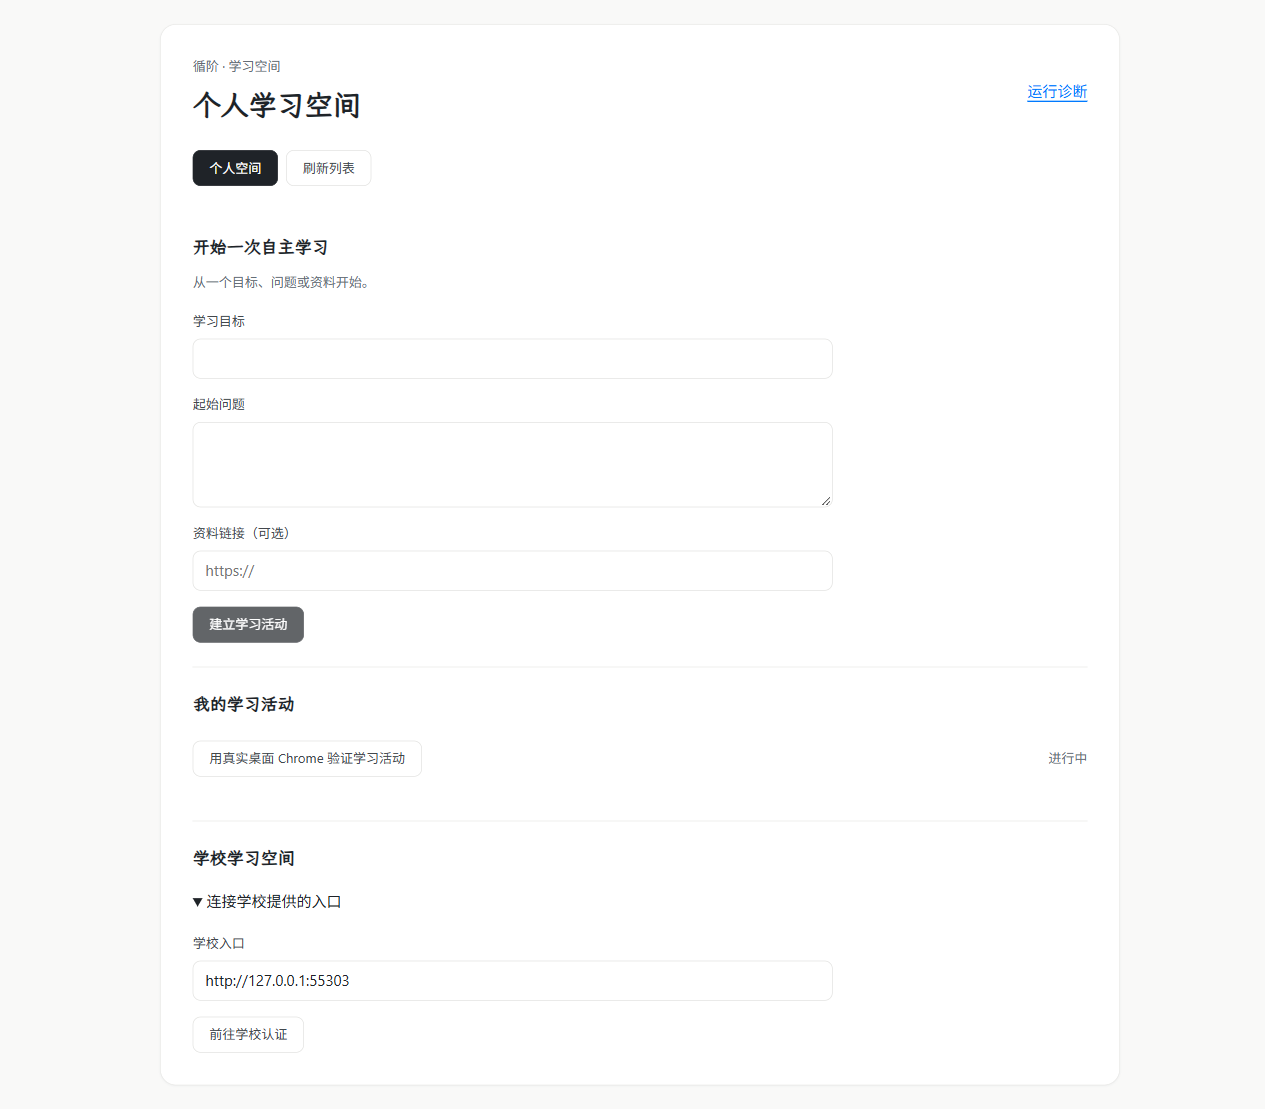
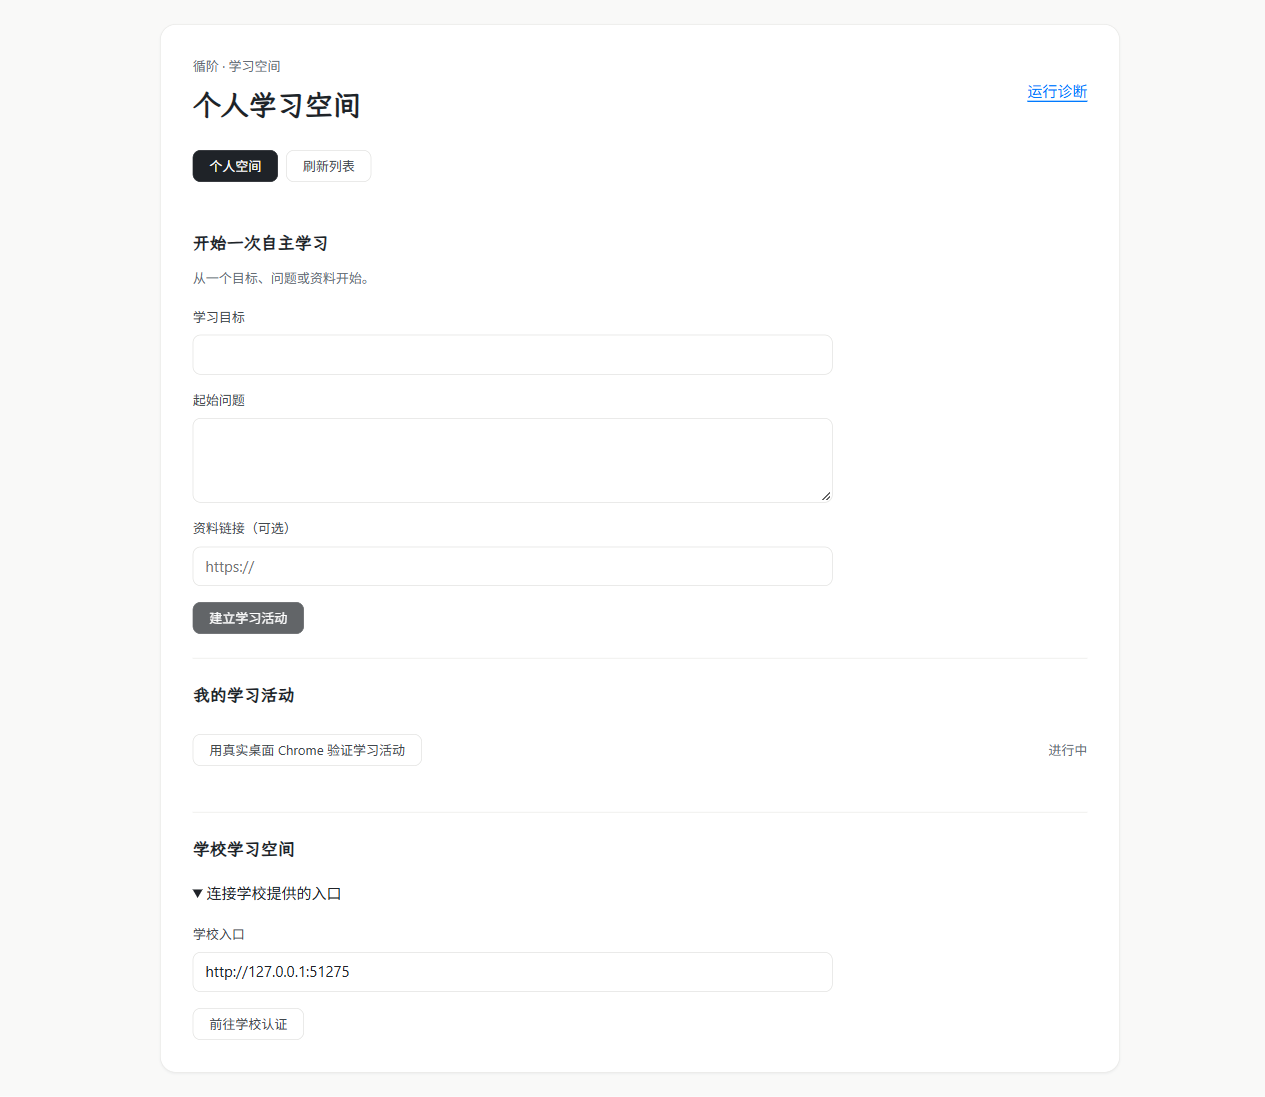
refactor(learning): own space modules in a package and close review gaps (#149)

diff --git a/apps/web/src/runtime/LearningPage.tsx b/apps/web/src/runtime/LearningPage.tsx
@@ -19,7 +19,11 @@ async function api(path: string, body?: unknown, key?: string, signal?: AbortSig
     headers: { 'content-type': 'application/json', ...(key ? { 'x-xj-space': key } : {}) },
     ...(body === undefined ? {} : { body: JSON.stringify(body) }), signal: signal ?? AbortSignal.timeout(10000), credentials: 'same-origin' })
   const result = await response.json()
-  if (!response.ok) throw new Error(messages[result.error] ?? '操作结果尚未确认，请核对原请求后重试。')
+  if (!response.ok) {
+    const failure = new Error(messages[result.error] ?? '操作结果尚未确认，请核对原请求后重试。') as Error & { code?: string }
+    failure.code = result.error
+    throw failure
+  }
   return result
 }
 const errorText = (error: unknown) => error instanceof Error ? error.message : '操作未完成，请重试。'
@@ -106,14 +110,27 @@ export function LearningPage() {
     // Persist the exact request before dispatch; an unknown result keeps this identity across reloads.
     localStorage.setItem(scopeKey, JSON.stringify(input))
     setPendingRequest(input)
-    const existing = await api('receipts/' + input.requestId, undefined, selected)
-    const activity = activitySchema.parse(existing ?? await api('activities', input, selected))
-    const saved = localStorage.getItem(scopeKey)
-    if (saved && createActivitySchema.parse(JSON.parse(saved)).requestId === input.requestId) localStorage.removeItem(scopeKey)
-    if (generation === epoch.current) {
-      setPendingRequest(null); setOpened(activity); setActivities(previous => [activity, ...(previous ?? []).filter(item => item.activityId !== activity.activityId)])
-      setGoal(''); setQuestion(''); setReference('')
+    try {
+      const existing = await api('receipts/' + input.requestId, undefined, selected)
+      const activity = activitySchema.parse(existing ?? await api('activities', input, selected))
+      const saved = localStorage.getItem(scopeKey)
+      if (saved && createActivitySchema.parse(JSON.parse(saved)).requestId === input.requestId) localStorage.removeItem(scopeKey)
+      if (generation === epoch.current) {
+        setPendingRequest(null); setOpened(activity); setActivities(previous => [activity, ...(previous ?? []).filter(item => item.activityId !== activity.activityId)])
+        setGoal(''); setQuestion(''); setReference('')
+      }
+    } catch (error) {
+      // A rejected input can never succeed under this request identity; let the student edit again.
+      if ((error as { code?: string }).code === 'invalid') {
+        localStorage.removeItem(scopeKey)
+        if (generation === epoch.current) setPendingRequest(null)
+      }
+      throw error
     }
+  }
+  function discardPending() {
+    if (pendingKey) localStorage.removeItem(pendingKey)
+    setPendingRequest(null); setGoal(''); setQuestion(''); setReference(''); setError('')
   }
   async function openActivity(activityId: string) {
     const generation = epoch.current
@@ -161,6 +178,7 @@ export function LearningPage() {
             <label>起始问题<textarea value={question} maxLength={10000} disabled={!!pendingRequest} onChange={event => setQuestion(event.target.value)} rows={3} /></label>
             <label>资料链接（可选）<input type="url" value={reference} disabled={!!pendingRequest} onChange={event => setReference(event.target.value)} placeholder="https://" /></label>
             {pendingRequest && <p className="detail">上次建立活动的结果尚未核对，将先查询原请求。</p>}
+            {pendingRequest && <button type="button" disabled={busy} onClick={discardPending}>放弃这次请求并重新填写</button>}
             <button className="primary" disabled={busy || !pendingRequest && !goal.trim() && !question.trim() && !reference}>
               {busy ? '正在处理…' : pendingRequest ? '核对并继续原请求' : '建立学习活动'}</button>
           </form>

diff --git a/packages/learning-space/src/learning-entry/index.ts b/packages/learning-space/src/learning-entry/index.ts
@@ -47,6 +47,12 @@ export function createLearningEntry(options: {
   const { spaces, learning, environment } = options;
   const cookieName = `xj_${environment.environmentId.replaceAll('-', '')}`;
   const endpoint = new URL(environment.services[0]!.endpoint);
+  // The same product may be opened as 127.0.0.1, localhost or [::1] on a loopback listener.
+  const allowedOrigins = new Set([endpoint.origin]);
+  if (['127.0.0.1', '[::1]', 'localhost'].includes(endpoint.hostname)) {
+    const port = endpoint.port ? `:${endpoint.port}` : '';
+    for (const host of ['127.0.0.1', 'localhost', '[::1]']) allowedOrigins.add(`${endpoint.protocol}//${host}${port}`);
+  }
   const cookieFlags = `; Path=/; HttpOnly; SameSite=Strict${endpoint.protocol === 'https:' ? '; Secure' : ''}`;
   function session(request: IncomingMessage) {
     return request.headers.cookie?.split(';').map(part => part.trim()).find(part => part.startsWith(cookieName + '='))?.slice(cookieName.length + 1) ?? '';
@@ -67,7 +73,7 @@ export function createLearningEntry(options: {
     const pathname = new URL(request.url ?? '/', endpoint).pathname;
     if (!pathname.startsWith('/api/learning/')) return false;
     try {
-      if (request.headers.origin && request.headers.origin !== endpoint.origin || request.headers['sec-fetch-site'] === 'cross-site') throw new StorageError('forbidden');
+      if (request.headers.origin && !allowedOrigins.has(request.headers.origin) || request.headers['sec-fetch-site'] === 'cross-site') throw new StorageError('forbidden');
       const route = pathname.slice('/api/learning/'.length);
       const method = request.method;
       let result: unknown;
@@ -115,6 +121,9 @@ export function createLearningEntry(options: {
         } else if (route === 'manage/membership') {
           const input = z.object({ requestId: z.uuid(), principalId: z.uuid(), active: z.boolean() }).strict().parse(body);
           await spaces.setMembership(input); result = { updated: true };
+        } else if (route === 'manage/connection') {
+          const input = z.object({ connectionId: z.uuid() }).strict().parse(body);
+          result = await spaces.adminRevokeConnection(input.connectionId);
         } else throw new StorageError('missing');
       } else if (route === 'connections/start' && method === 'POST') {
         const input = z.object({ requestId: z.uuid(), clientId: z.uuid(), challenge: z.string() }).strict().parse(await readLearningBody(request));

diff --git a/apps/local-runtime/src/cli.ts b/apps/local-runtime/src/cli.ts
@@ -39,6 +39,7 @@ const commands: Record<string, readonly string[]> = {
   'maintenance-resume': ['resources'],
   'school-member': ['file', 'resources'],
   'school-membership': ['file', 'resources'],
+  'school-connection': ['file', 'resources'],
 };
 
 // Keep known secret values out of messages even if a downstream error includes them.
@@ -323,12 +324,14 @@ async function main(): Promise<void> {
     }
     case 'start': output(await run(() => runtime.start())); break;
     case 'school-member':
-    case 'school-membership': {
+    case 'school-membership':
+    case 'school-connection': {
       const input = await jsonFile(required('file'), '学校成员操作');
       if (typeof input.password === 'string') rememberSecret(input.password);
       const status = await run(() => runtime.status());
       if (!status.endpoint || !['ready', 'degraded'].includes(status.state)) throw new Error('请先启动本学校产品环境');
-      const response = await fetch(new URL(`/api/learning/manage/${command === 'school-member' ? 'members' : 'membership'}`, status.endpoint), {
+      const action = command === 'school-member' ? 'members' : command === 'school-membership' ? 'membership' : 'connection';
+      const response = await fetch(new URL(`/api/learning/manage/${action}`, status.endpoint), {
         method: 'POST', redirect: 'error', signal: AbortSignal.timeout(15000),
         headers: { 'content-type': 'application/json', authorization: `Bearer ${rememberSecret(await resolveCredential(root, 'control'))}` },
         body: JSON.stringify(input),

diff --git a/apps/web/src/runtime/learning.css b/apps/web/src/runtime/learning.css
@@ -3,10 +3,10 @@
 .learning-page a { color: var(--accent); text-underline-offset: 4px; }
 .learning-page .space-switcher { display: flex; flex-wrap: wrap; gap: 8px; margin: 24px 0; }
 .learning-page button[aria-pressed='true'], .learning-page .primary { background: var(--primary); color: var(--on-primary); border-color: var(--primary); }
-.learning-page button { min-height: 36px; }
+.learning-page button { min-height: 32px; padding: 0 16px; font-size: 13px; }
 .learning-page form { display: grid; gap: 16px; margin-top: 20px; max-width: 640px; }
 .learning-page label { display: grid; gap: 8px; color: var(--ink-soft); font-size: 13px; }
-.learning-page input, .learning-page textarea { width: 100%; min-height: 40px; padding: 8px 12px; border: 1px solid var(--line-strong); border-radius: 8px; background: var(--paper); color: var(--ink); font: 15px/1.5 var(--font-sans); }
+.learning-page input, .learning-page textarea { width: 100%; min-height: 36px; padding: 8px 12px; border: 1px solid var(--line-strong); border-radius: 8px; background: var(--paper); color: var(--ink); font: 15px/1.5 var(--font-sans); }
 .learning-page textarea { resize: vertical; }
 .learning-page form button { justify-self: start; }
 .learning-page section { padding-top: 24px; margin-top: 24px; }

diff --git a/packages/learning-space/src/spaces/index.ts b/packages/learning-space/src/spaces/index.ts
@@ -184,11 +184,19 @@ export function createSpaces(storage: OwnedStorage, options: { sessionLifetimeMs
       return null;
     });
   }
+  async function adminRevokeConnection(connectionId: string) {
+    id.parse(connectionId);
+    await storage.request({ requestId: randomUUID(), fingerprint: digest({ connectionId }) }, async tx => {
+      const result = await tx.query("UPDATE sessions SET revoked=true WHERE connection_id=$1 AND kind='connection'", [connectionId]);
+      if (!result.rowCount) fail('missing');
+      return { revoked: true };
+    });
+  }
   async function validate() {
     const { rows } = await storage.read('SELECT target FROM learning_bindings');
     for (const row of rows) learningTargetSchema.parse(row.target);
     await storage.read('SELECT a.principal_id FROM accounts a JOIN memberships m ON m.principal_id=a.principal_id');
   }
   return { personal, createMember, setMembership, login, authenticate, bindMember, resolveBinding,
-    logout, beginConnection, approveConnection, exchangeConnection, revokeConnection, validate };
+    logout, beginConnection, approveConnection, exchangeConnection, revokeConnection, adminRevokeConnection, validate };
 }

diff --git a/packages/product-runtime/src/school-client.ts b/packages/product-runtime/src/school-client.ts
@@ -91,7 +91,14 @@ export function createSchoolClient(root: string, environment: RuntimeEnvironment
     if (!/^(?:activities(?:\/[0-9a-f-]{36})?|activity-status|receipts\/[0-9a-f-]{36}|connections\/revoke)$/.test(route)) throw new StorageError('forbidden');
     const connection = await read(connectionId);
     if (!connection.grant) throw new StorageError('forbidden');
-    const value = await call(connection, route, body, true);
+    let value: unknown;
+    try { value = await call(connection, route, body, true); }
+    catch (error) {
+      // The school may already have revoked this grant (or the membership): drop the local copy too.
+      if (route !== 'connections/revoke' || !(error instanceof StorageError) || error.code !== 'forbidden') throw error;
+      await rm(path(connectionId), { force: true });
+      return { revoked: true };
+    }
     if (route === 'connections/revoke') {
       // A revoked grant must stop appearing as an available space; keep no local copy that could be replayed.
       await rm(path(connectionId), { force: true });

diff --git a/packages/product-runtime/src/learning-entry.ts b/packages/product-runtime/src/learning-entry.ts
@@ -2,7 +2,7 @@ import { randomBytes, randomUUID } from 'node:crypto';
 import { join } from 'node:path';
 import { createFileBackend, openStorage, provisionStorage } from '@xunjie/storage';
 import type { OwnedStorage, StorageBinding, DatabaseConnection } from '@xunjie/storage';
-import { createSpaces, spaceMigrations, createLearningData, learningMigrations, createLearningEntry, validateLearningData } from '@xunjie/server/learning-entry';
+import { createSpaces, spaceMigrations, createLearningData, learningMigrations, createLearningEntry, validateLearningData } from '@xunjie/learning-space';
 import type { RuntimeEnvironment } from '@xunjie/contracts/product-runtime';
 import type { InstalledConfiguration } from './runtime.js';
 import { databaseBinding, resolveCredential, storeCredential } from './postgres.js';

diff --git a/packages/learning-space/src/index.ts b/packages/learning-space/src/index.ts
@@ -1,0 +1,3 @@
+export * from './spaces/index.js';
+export * from './learning-data/index.js';
+export * from './learning-entry/index.js';

diff --git a/docs/student-agent-implementation/engineering-entrypoints.md b/docs/student-agent-implementation/engineering-entrypoints.md
@@ -30,7 +30,7 @@ npm run verify
 
 验证入口实时保存原始 stdout/stderr，并输出阶段、耗时和失败摘要。`.verification/latest.json` 指向本轮完整日志与阶段结果，每轮日志单独保存；CI 无论成功或失败均上传日志，保留 7 天。日志目录不进入 Git。使用 RTK 时执行 `rtk bypass npm run verify`，保留实时进度。
 
-根类型检查先编译 contracts / storage / product-runtime；根构建按 contracts → storage → product-runtime → server → Web / 独立运行网页 → local-runtime 排序。测试先构建契约与独立网页，产品运行和存储测试通过公开 package 执行。保留 Web 的 TypeScript 5.9 与 server 的 TypeScript 7，各 workspace 使用自己的编译器和配置。页面开发使用 `npm run dev:prep -w @xunjie/web`（合成数据）或 `npm run dev -w @xunjie/web`；构建后 `npm start -w @xunjie/server` 启动后端，真实课程仍需相应宿主配置。
+根类型检查先编译 contracts / storage / server / product-runtime；根构建按 contracts → storage → server → product-runtime → Web / 独立运行网页 → local-runtime 排序。测试先构建契约与独立网页，产品运行和存储测试通过公开 package 执行。保留 Web 的 TypeScript 5.9 与 server 的 TypeScript 7，各 workspace 使用自己的编译器和配置。页面开发使用 `npm run dev:prep -w @xunjie/web`（合成数据）或 `npm run dev -w @xunjie/web`；构建后 `npm start -w @xunjie/server` 启动后端，真实课程仍需相应宿主配置。
 
 [scripts/build-server.mjs](../../scripts/build-server.mjs)先清空 `apps/server/dist`，再按[生产配置](../../apps/server/tsconfig.build.json)编译，并检查实际输出；发现测试、fixtures、support 或验收宿主等测试专用文件即失败。仅在 tsconfig 中排除文件不足以阻止 import 把它们带回产物。发布清单与依赖仍须核对，现行云端打包入口是 [build-runtime-artifact.mjs](../../tools/i0-cloud/build-runtime-artifact.mjs)。
 

diff --git a/apps/local-runtime/README.md b/apps/local-runtime/README.md
@@ -1,6 +1,6 @@
 # XunJie 产品 CLI（候选交付）
 
-本目录提供产品运行、维护恢复及学校成员管理 CLI，薄装配 `@xunjie/product-runtime` 公共 API。项目入口见[根 README](../../README.md)，既有教学 Web 说明见[相邻 Web README](../web/README.md)。默认产品网页已接入[学习空间身份与活动](../../docs/student-agent-implementation/wp02-identity-activity.md)，`school-member` / `school-membership` 从仓库外私密输入建立成员或授予、撤销资格。安装或启动成功不代表课程、Agent 或教学效果验收通过。
+本目录提供产品运行、维护恢复及学校成员管理 CLI，薄装配 `@xunjie/product-runtime` 公共 API。项目入口见[根 README](../../README.md)，既有教学 Web 说明见[相邻 Web README](../web/README.md)。默认产品网页已接入[学习空间身份与活动](../../docs/student-agent-implementation/wp02-identity-activity.md)，`school-member` / `school-membership` / `school-connection` 从仓库外私密输入建立成员、授予或撤销资格、撤销指定客户端连接。安装或启动成功不代表课程、Agent 或教学效果验收通过。
 
 这是产品运行底座的候选交付。完整工程门禁、Mac/Windows 实际包安装、启停、隔离与故障恢复、Linux 独立包运行及 Mac→学校 Linux 的真实公网 HTTPS 认证、断连重连和撤销已经验证。Windows Chrome/Edge 基础页面由负责人实机确认；各平台证据、限制和可重复入口见[运行交接](../../docs/student-agent-implementation/runtime-acceptance.md)。签名、公证按负责人要求移出本轮；不宣称完整课程产品或自动更新已交付。
 
